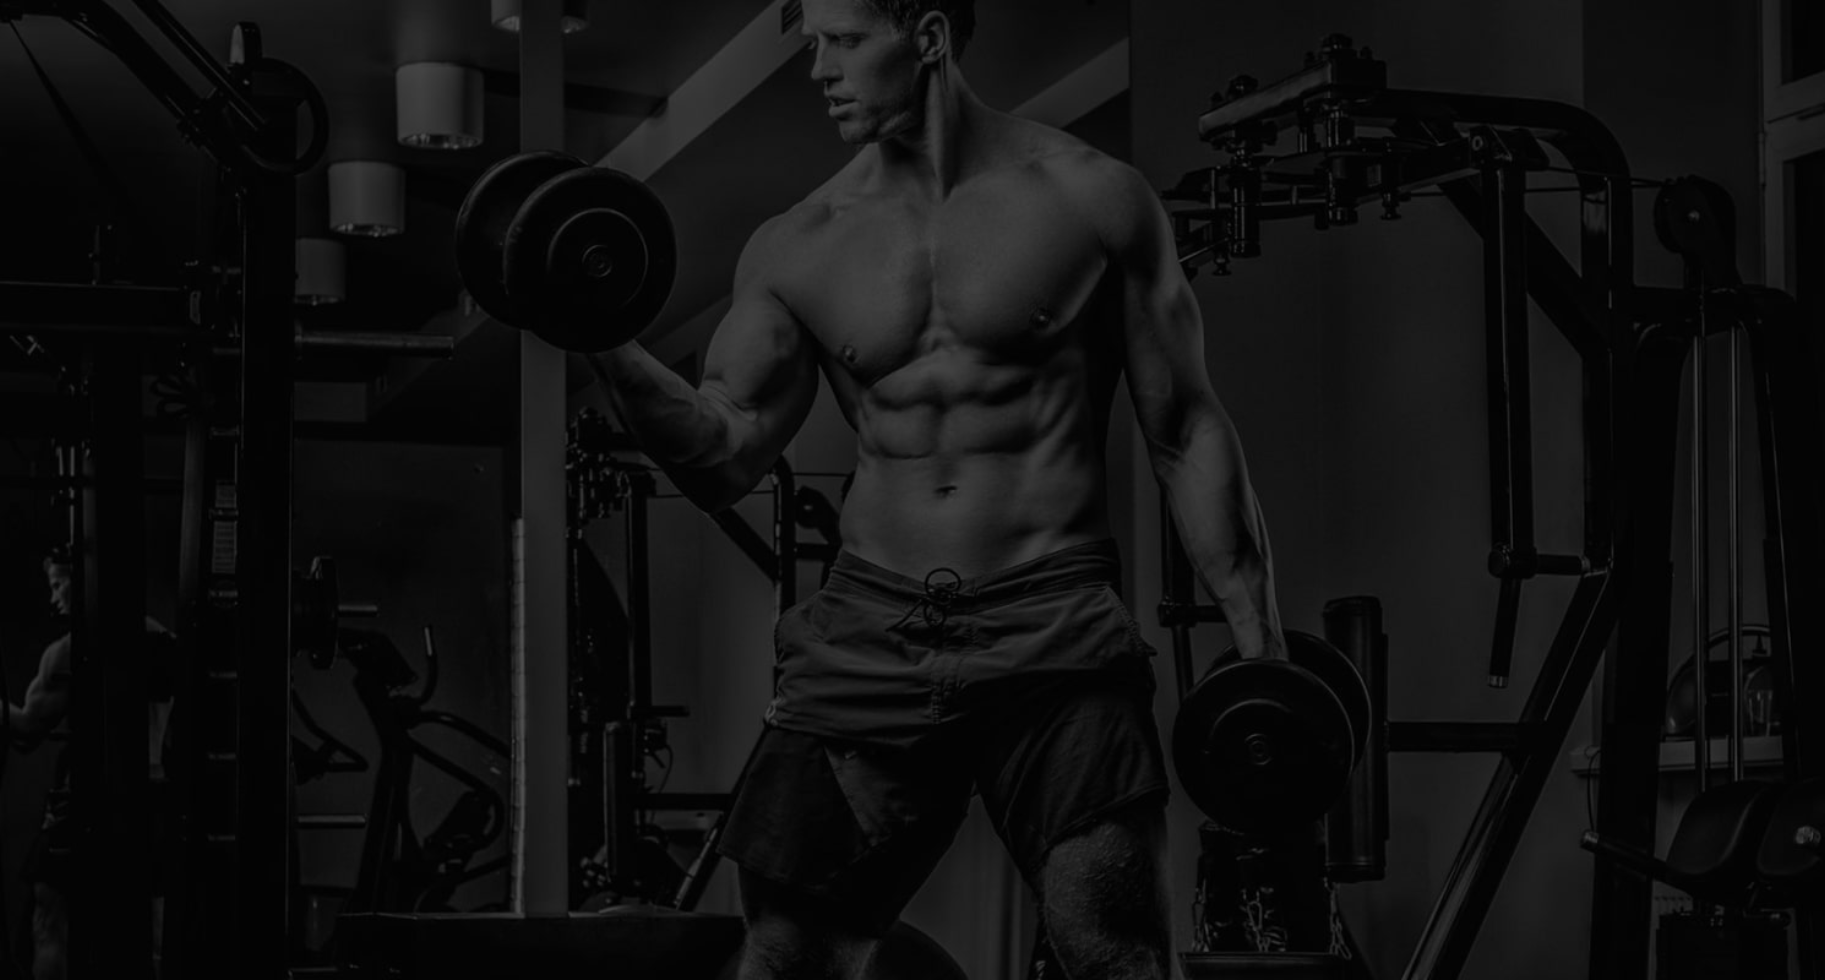
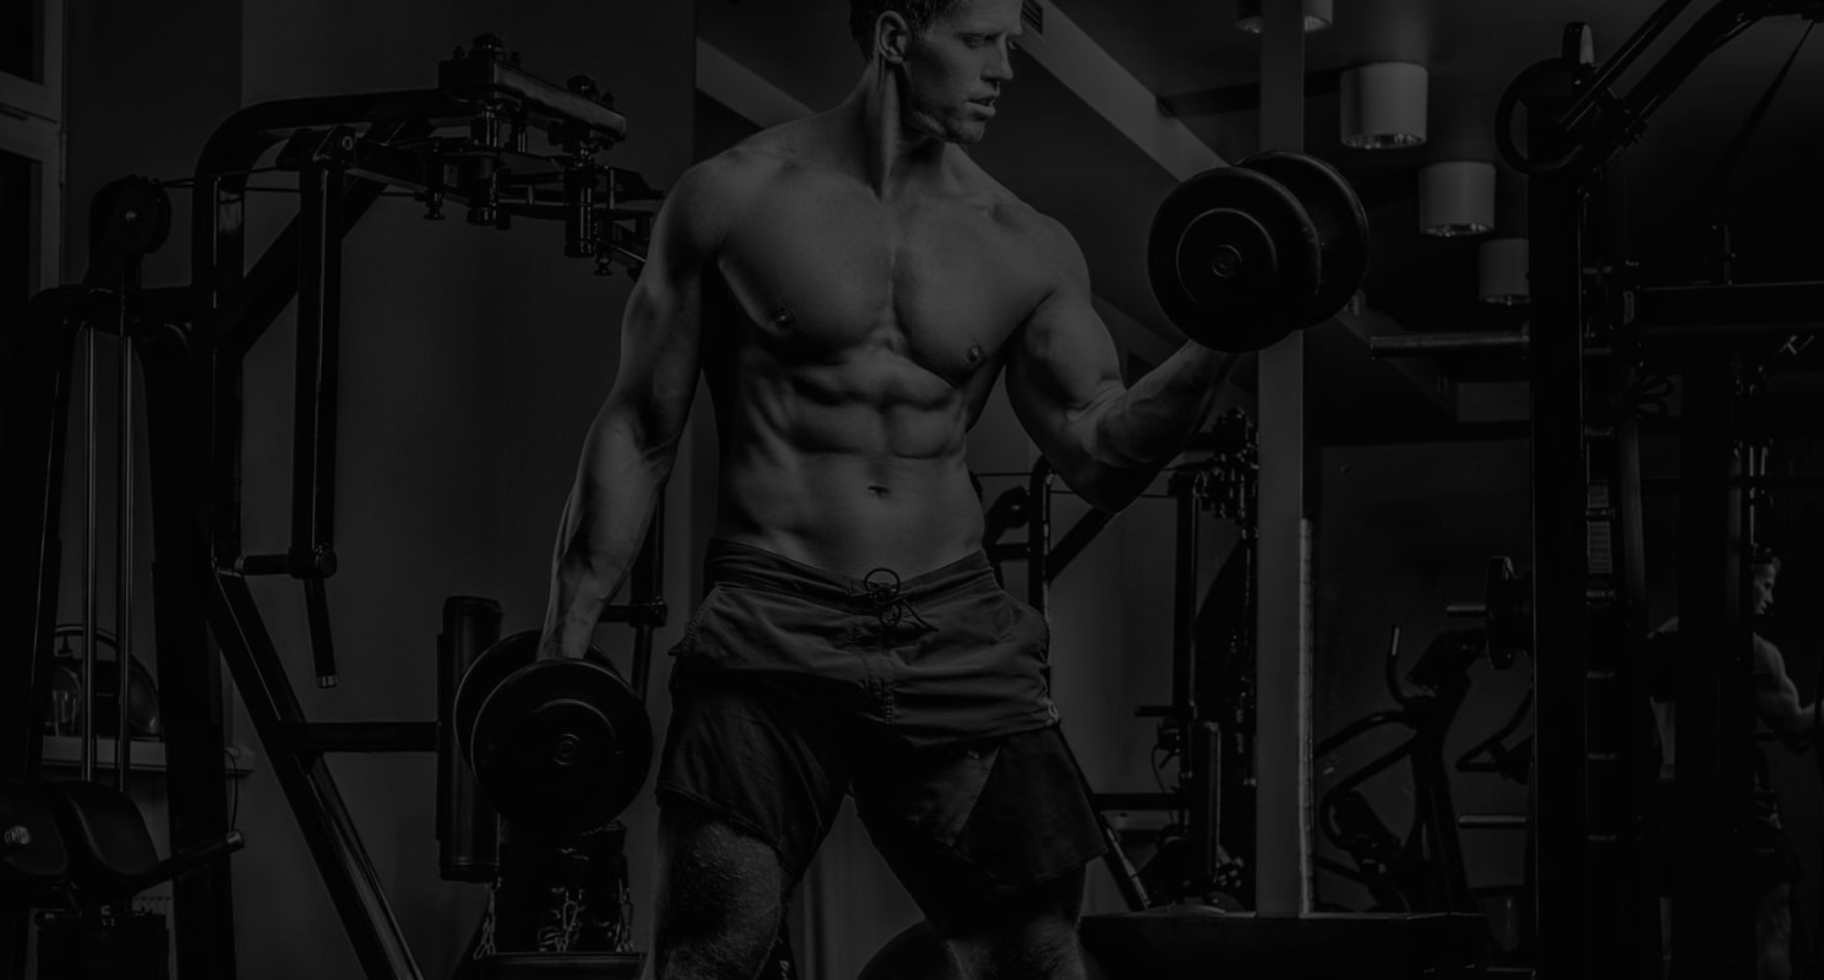
add slider

diff --git a/home-1.html b/home-1.html
@@ -15,7 +15,6 @@
 <body>
 
     <header>
-
         <!-- topbar -->
         <div class="topbar bg-green">
             <div class="d-flex p-3 justify-content-between align-items-center">
@@ -27,16 +26,88 @@
                 <div class="w-50" dir="ltr">
                     <div class="ticker">
                         <div class="ticker__wrap">
-                            <div class="ticker__item">خبر شماره ۱ - این یک متن تستی است</div>
-                            <div class="ticker__item">خبر شماره ۲ - متن بعدی بدون فاصله میاد</div>
-                            <div class="ticker__item">خبر شماره ۳ - همینطوری ادامه پیدا میکنه</div>
-                            <div class="ticker__item">خبر شماره ۴ - زیرنویس طور شبکه خبر</div>
+                            <div class="ticker__item">
+
+                                <span class="fs15 fw-600 me-1">
+                                    هدیه رایگان وقتی بالای ۱۵۰ دلار خرج میکنید
+                                </span>
+                                <svg stroke="currentColor" fill="none" stroke-width="2" viewBox="0 0 24 24"
+                                    stroke-linecap="round" stroke-linejoin="round" height="23" width="23"
+                                    xmlns="http://www.w3.org/2000/svg">
+                                    <rect x="3" y="8" width="18" height="4" rx="1"></rect>
+                                    <path d="M12 8v13"></path>
+                                    <path d="M19 12v7a2 2 0 0 1-2 2H7a2 2 0 0 1-2-2v-7"></path>
+                                    <path
+                                        d="M7.5 8a2.5 2.5 0 0 1 0-5A4.8 8 0 0 1 12 8a4.8 8 0 0 1 4.5-5 2.5 2.5 0 0 1 0 5">
+                                    </path>
+                                </svg>
+
+                            </div>
+                            <div class="ticker__item">
+                                <span class="fs15 fw-600 me-1">رایگان برای حمل و نقل بالای 100 هزار تومان</span>
+                                <svg stroke="currentColor" fill="none" stroke-width="2" viewBox="0 0 24 24"
+                                    stroke-linecap="round" stroke-linejoin="round" height="25" width="25"
+                                    xmlns="http://www.w3.org/2000/svg">
+                                    <path d="M7 17m-2 0a2 2 0 1 0 4 0a2 2 0 1 0 -4 0"></path>
+                                    <path d="M17 17m-2 0a2 2 0 1 0 4 0a2 2 0 1 0 -4 0"></path>
+                                    <path d="M5 17h-2v-4m-1 -8h11v12m-4 0h6m4 0h2v-6h-8m0 -5h5l3 5"></path>
+                                    <path d="M3 9l4 0"></path>
+                                </svg>
+
+
+                            </div>
+                            <div class="ticker__item">
+                                <span class="fs15 fw-600 me-1">تضمین امنیت پرداخت با ما</span>
+                                <svg stroke="currentColor" fill="currentColor" stroke-width="0" viewBox="0 0 576 512"
+                                    height="20" width="20" xmlns="http://www.w3.org/2000/svg">
+                                    <path
+                                        d="M512 80c8.8 0 16 7.2 16 16l0 32L48 128l0-32c0-8.8 7.2-16 16-16l448 0zm16 144l0 192c0 8.8-7.2 16-16 16L64 432c-8.8 0-16-7.2-16-16l0-192 480 0zM64 32C28.7 32 0 60.7 0 96L0 416c0 35.3 28.7 64 64 64l448 0c35.3 0 64-28.7 64-64l0-320c0-35.3-28.7-64-64-64L64 32zm56 304c-13.3 0-24 10.7-24 24s10.7 24 24 24l48 0c13.3 0 24-10.7 24-24s-10.7-24-24-24l-48 0zm128 0c-13.3 0-24 10.7-24 24s10.7 24 24 24l112 0c13.3 0 24-10.7 24-24s-10.7-24-24-24l-112 0z">
+                                    </path>
+                                </svg>
+
+                            </div>
 
                             <!-- تکرار دوباره برای لوپ بیوقفه -->
-                            <div class="ticker__item">خبر شماره ۱ - این یک متن تستی است</div>
-                            <div class="ticker__item">خبر شماره ۲ - متن بعدی بدون فاصله میاد</div>
-                            <div class="ticker__item">خبر شماره ۳ - همینطوری ادامه پیدا میکنه</div>
-                            <div class="ticker__item">خبر شماره ۴ - زیرنویس طور شبکه خبر</div>
+                            <div class="ticker__item">
+
+                                <span class="fs15 fw-600 me-1">
+                                    هدیه رایگان وقتی بالای ۱۵۰ دلار خرج میکنید
+                                </span>
+                                <svg stroke="currentColor" fill="none" stroke-width="2" viewBox="0 0 24 24"
+                                    stroke-linecap="round" stroke-linejoin="round" height="23" width="23"
+                                    xmlns="http://www.w3.org/2000/svg">
+                                    <rect x="3" y="8" width="18" height="4" rx="1"></rect>
+                                    <path d="M12 8v13"></path>
+                                    <path d="M19 12v7a2 2 0 0 1-2 2H7a2 2 0 0 1-2-2v-7"></path>
+                                    <path
+                                        d="M7.5 8a2.5 2.5 0 0 1 0-5A4.8 8 0 0 1 12 8a4.8 8 0 0 1 4.5-5 2.5 2.5 0 0 1 0 5">
+                                    </path>
+                                </svg>
+
+                            </div>
+                            <div class="ticker__item">
+                                <span class="fs15 fw-600 me-1">رایگان برای حمل و نقل بالای 100 هزار تومان</span>
+                                <svg stroke="currentColor" fill="none" stroke-width="2" viewBox="0 0 24 24"
+                                    stroke-linecap="round" stroke-linejoin="round" height="25" width="25"
+                                    xmlns="http://www.w3.org/2000/svg">
+                                    <path d="M7 17m-2 0a2 2 0 1 0 4 0a2 2 0 1 0 -4 0"></path>
+                                    <path d="M17 17m-2 0a2 2 0 1 0 4 0a2 2 0 1 0 -4 0"></path>
+                                    <path d="M5 17h-2v-4m-1 -8h11v12m-4 0h6m4 0h2v-6h-8m0 -5h5l3 5"></path>
+                                    <path d="M3 9l4 0"></path>
+                                </svg>
+
+
+                            </div>
+                            <div class="ticker__item">
+                                <span class="fs15 fw-600 me-1">تضمین امنیت پرداخت با ما</span>
+                                <svg stroke="currentColor" fill="currentColor" stroke-width="0" viewBox="0 0 576 512"
+                                    height="20" width="20" xmlns="http://www.w3.org/2000/svg">
+                                    <path
+                                        d="M512 80c8.8 0 16 7.2 16 16l0 32L48 128l0-32c0-8.8 7.2-16 16-16l448 0zm16 144l0 192c0 8.8-7.2 16-16 16L64 432c-8.8 0-16-7.2-16-16l0-192 480 0zM64 32C28.7 32 0 60.7 0 96L0 416c0 35.3 28.7 64 64 64l448 0c35.3 0 64-28.7 64-64l0-320c0-35.3-28.7-64-64-64L64 32zm56 304c-13.3 0-24 10.7-24 24s10.7 24 24 24l48 0c13.3 0 24-10.7 24-24s-10.7-24-24-24l-48 0zm128 0c-13.3 0-24 10.7-24 24s10.7 24 24 24l112 0c13.3 0 24-10.7 24-24s-10.7-24-24-24l-112 0z">
+                                    </path>
+                                </svg>
+
+                            </div>
                         </div>
                     </div>
 
@@ -157,38 +228,128 @@
 
     <!-- slider -->
     <div class="max-width-container mx-auto slider">
-        <div class="slider-1 br-20">
-            <div class="h-100 d-flex align-items-center justify-content-between position-relative">
-                <img src="images/slider/revslider_shape.png" class="position-absolute left-img-slider" alt="">
-                <div class="pe-4">
-                    <div class="text-white fw-600">
-                        بهترین مکمل های موضعی
-                    </div>
-                    <h1 class="fw-800 text-white large-txt mt-2">
-                        بهترین شریک
-                        <br>
-                        در مسیر ...
-                        <br>
-                        <span class="red">
-                            تناسباندام
-                        </span>
 
-                    </h1>
-                    <div class="text-white fw-600 fs20">
-                        افزایش دهنده حجم عضلانی هاردکور، مناسب برای بدنسازان
-                    </div>
+        <div class="swiper slider_swiper">
+            <div class="swiper-wrapper">
+                <div class="swiper-slide">
+                    <div class="slider-2 br-20">
+                        <div class="h-100 d-flex align-items-center justify-content-between position-relative">
+                            <img src="images/slider/revslider_smoke.png" style="z-index: 0;"
+                                class="position-absolute w-100 bottom-0 br-20" alt="">
+                            <div class="pe-4 position-relative">
+                                <div class="text-white fw-600 ">
+                                    نسخه محدود
 
-                    <div class="mt-4">
-                        <button class="border-0 fs17 bg-white shop-btn fw-600">
-                            فروشگاه
-                        </button>
+
+                                </div>
+                                <h1 class="fw-800 text-white large-txt mt-2">
+                                    <span class="yellow">
+                                        تمرین قــوی 
+                                    </span>
+
+                                    <br>
+                                    در مسیر ...
+                                    <br>
+                                   
+
+                                </h1>
+                                <div class="text-white fw-600 fs20">
+                                    افزایش دهنده حجم عضلانی هاردکور، مناسب برای بدنسازان
+                                </div>
+
+                                <div class="mt-4">
+                                    <button class="border-0 fs17 bg-white shop-btn fw-600">
+                                        شروع خرید
+                                    </button>
+                                </div>
+                            </div>
+                            <div class="text-start">
+                                <img src="images/slider/download.png" width="90%" class="slider-img" alt="">
+                            </div>
+                        </div>
                     </div>
                 </div>
-                <div>
-                    <img src="images/slider/revslider_product-2.png" width="95%" class="slider-img" alt="">
+                <div class="swiper-slide">
+                    <div class="slider-1 br-20">
+                        <div class="h-100 d-flex align-items-center justify-content-between position-relative">
+                            <img src="images/slider/revslider_shape.png" class="position-absolute left-img-slider"
+                                alt="">
+                            <div class="pe-4">
+                                <div class="text-white fw-600">
+                                    بهترین مکمل های موضعی
+                                </div>
+                                <h1 class="fw-800 text-white large-txt mt-2">
+                                    بهترین شریک
+                                    <br>
+                                    در مسیر ...
+                                    <br>
+                                    <span class="red">
+                                        تناسباندام
+                                    </span>
+
+                                </h1>
+                                <div class="text-white fw-600 fs20">
+                                    افزایش دهنده حجم عضلانی هاردکور، مناسب برای بدنسازان
+                                </div>
+
+                                <div class="mt-4">
+                                    <button class="border-0 fs17 bg-white shop-btn fw-600">
+                                        شروع خرید
+                                    </button>
+                                </div>
+                            </div>
+                            <div class="text-start">
+                                <img src="images/slider/revslider_product-2.png" width="90%" class="slider-img" alt="">
+                            </div>
+                        </div>
+                    </div>
+                </div>
+                <div class="swiper-slide">
+                    <div class="slider-3 br-20">
+                        <div class="h-100 d-flex align-items-center justify-content-between position-relative">
+                            <!-- <img src="images/slider/revslider_smoke.png" style="z-index: 0;"
+                                class="position-absolute w-100 bottom-0 br-20" alt=""> -->
+                            <div class="pe-4 position-relative">
+                                <div class="text-white fw-600 ">
+                                    نسخه محدود
+
+
+                                </div>
+                                <h1 class="fw-800 text-white large-txt mt-2">
+                                    <span class="orange">
+                                        بهترین شریک
+                                    </span>
+
+                                    <br>
+                                    در مسیر
+                                    <br>
+                                    <span class="">
+                                        بدنی قوی ...
+                                    </span>
+
+                                </h1>
+                                <div class="text-white fw-600 fs20">
+                                    افزایش دهنده حجم عضلانی هاردکور، مناسب برای بدنسازان
+                                </div>
+
+                                <div class="mt-4">
+                                    <button class="border-0 fs17 bg-white shop-btn fw-600">
+                                        شروع خرید
+                                    </button>
+                                </div>
+                            </div>
+                            <div class="text-start">
+                                <img src="images/slider/xsa.png" width="90%" class="slider-img" alt="">
+                            </div>
+                        </div>
+                    </div>
                 </div>
             </div>
+            <!-- اگر بخوای دکمهها -->
+              <div class="swiper-pagination pb-4"></div>
+
         </div>
+
     </div>
 
 

diff --git a/css/style.css b/css/style.css
@@ -147,6 +147,40 @@ a {
     background-size: cover;
 }
 
+.slider-2 {
+    height: 780px;
+    background: url(../images/slider/download\ \(2\).png);
+    width: 100%;
+    background-size: cover;
+}
+
+.slider-3 {
+    height: 780px;
+    background: url(../images/slider/download\ \(2\).png);
+    width: 100%;
+    background-size: cover;
+}
+
+
+
+/* همه نقاط (غیرفعال) */
+.swiper-pagination-bullet {
+    background-color: white !important;
+    width: 11px !important;
+    height: 11px !important;
+}
+
+/* نقطه فعال */
+.swiper-pagination-bullet-active {
+    border: 3px solid #8cff64 !important;
+    background-color: transparent !important;
+     width: 11px !important;
+    height: 11px !important;
+
+}
+
+
+
 .br-20 {
     border-radius: 20px;
 }
@@ -309,6 +343,14 @@ a {
 .price-type-badge.red {
     color: #EE440E;
     border-color: #EE440E;
+}
+
+.yellow {
+    color: rgb(255, 185, 18);
+}
+
+.orange {
+    color: rgb(254, 124, 9);
 }
 
 .price-type-badge.green {
@@ -678,28 +720,33 @@ a {
 
 
 .ticker {
-  width: 100%;
-  overflow: hidden;
-  background: #111;
-  color: #fff;
-  font-size: 18px;
-  white-space: nowrap;
-  box-sizing: border-box;
+    width: 100%;
+    overflow: hidden;
+    font-size: 18px;
+    white-space: nowrap;
+    box-sizing: border-box;
 }
 
 .ticker__wrap {
-  display: inline-block;
-  animation: ticker 20s linear infinite;
+    display: inline-block;
+    animation: ticker 20s linear infinite;
 }
 
 .ticker__item {
-  display: inline-block;
-  padding: 0 2rem;
+    display: inline-block;
+    padding: 0 2rem;
 }
 
 @keyframes ticker {
-  0%   { transform: translateX(0); }
-  100% { transform: translateX(-50%); } /* نصف چون دوبار داریم */
+    0% {
+        transform: translateX(0);
+    }
+
+    100% {
+        transform: translateX(-50%);
+    }
+
+    /* نصف چون دوبار داریم */
 }
 
 

diff --git a/js/js.js b/js/js.js
@@ -73,3 +73,24 @@ const topbartext = new Swiper(".topbartext", {
     disableOnInteraction: false,
   },
 });
+
+const slider_swiper = new Swiper(".slider_swiper", {
+  slidesPerView: 1,       // فقط یک اسلاید
+  effect: "fade",          // افکت محو شدن
+  loop: true,              // لوپ بینهایت
+  autoplay: {
+    delay: 5000,           // ۳ ثانیه بین اسلایدها
+    disableOnInteraction: false,
+  },
+  fadeEffect: {
+    crossFade: true,       // محو شدن کامل بین اسلایدها
+  },
+  navigation: {
+    nextEl: ".swiper-button-next",
+    prevEl: ".swiper-button-prev",
+  },
+  pagination: {
+    el: ".swiper-pagination",
+    clickable: true,       // کاربر میتواند روی نقطه کلیک کند
+  },
+});
